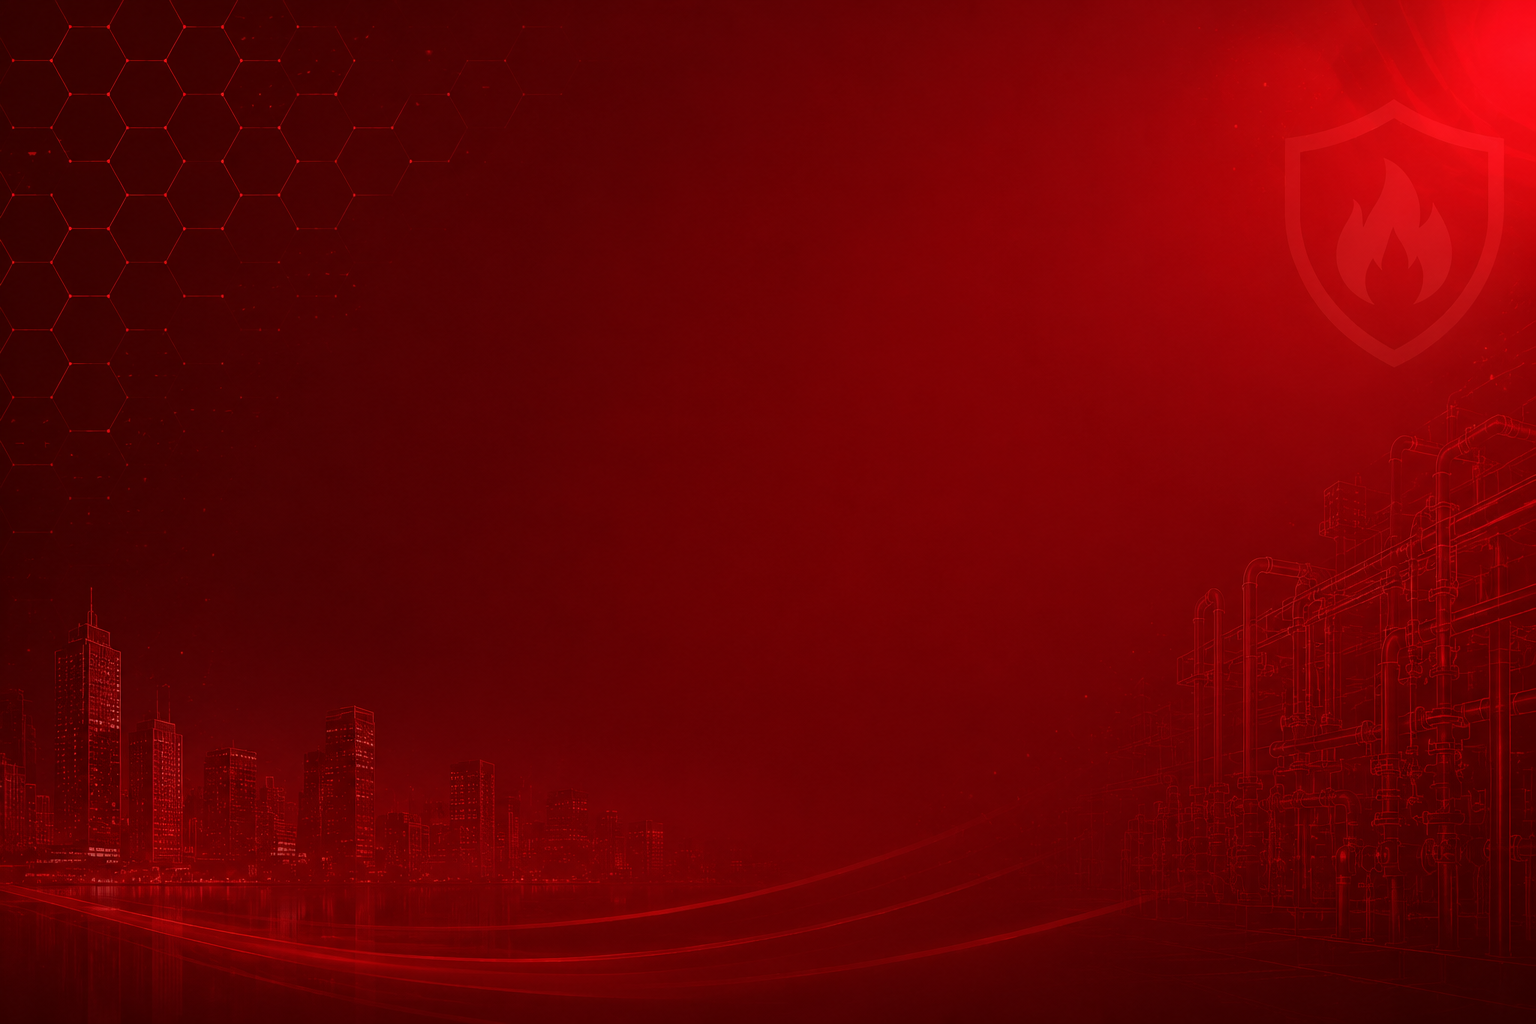
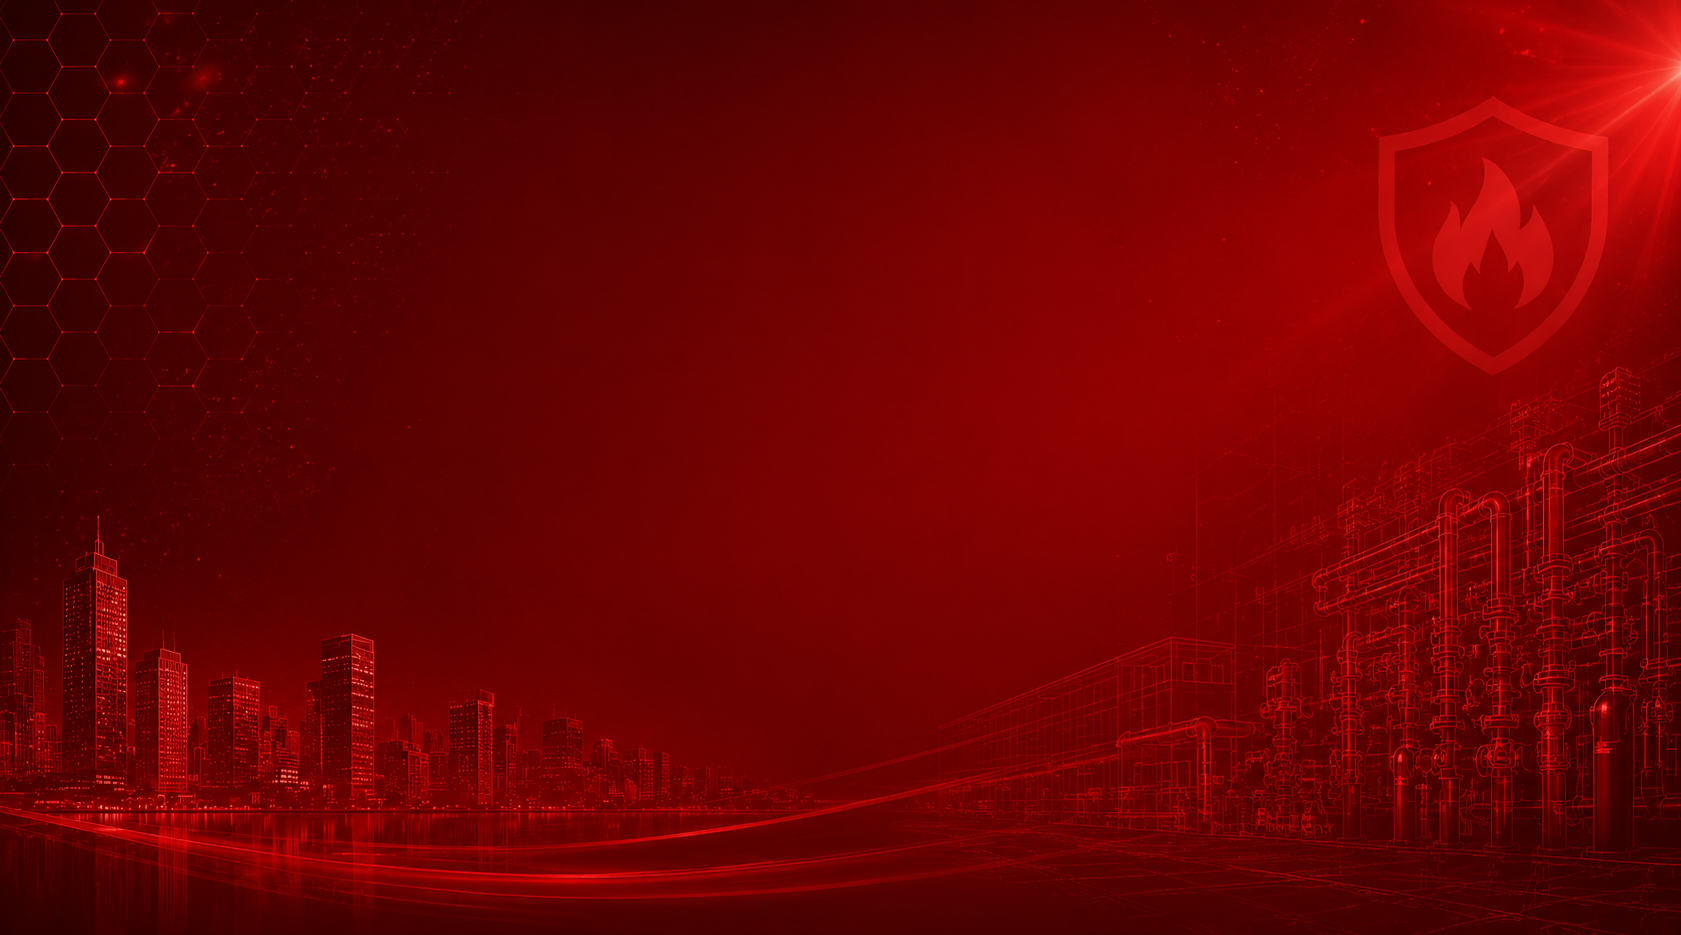
fix: white H1 large size, orange H1 2rem/1.5, update hero-bg

diff --git a/src/components/sections/Hero.tsx b/src/components/sections/Hero.tsx
@@ -42,9 +42,9 @@ export default function Hero({ config }: { config: SiteConfig }) {
               </div>
 
               {/* H1 */}
-              <h1 className="font-display font-black uppercase mb-4" style={{ fontSize: '2rem', lineHeight: '1.5' }}>
-                <span className="text-white block">Giải Pháp PCCC</span>
-                <span className="text-transparent bg-clip-text bg-gradient-to-r from-brand-accent to-yellow-300 block">
+              <h1 className="font-display font-black uppercase mb-4">
+                <span className="text-white text-5xl md:text-6xl block mb-2">Giải Pháp PCCC</span>
+                <span className="text-transparent bg-clip-text bg-gradient-to-r from-brand-accent to-yellow-300 block" style={{ fontSize: '2rem', lineHeight: '1.5' }}>
                   Cho Công Trình An Toàn
                 </span>
               </h1>